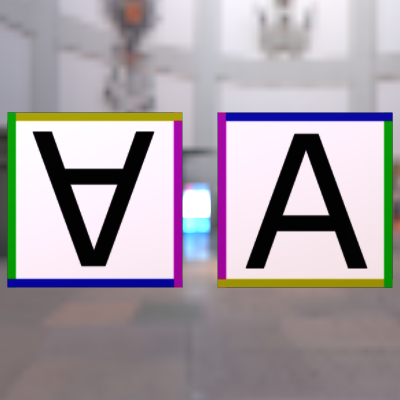
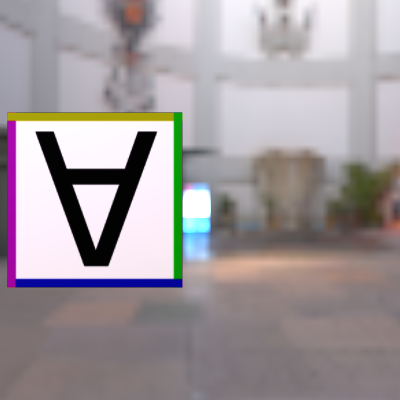
Update models.

diff --git a/Output/Positive/Instancing/README.md b/Output/Positive/Instancing/README.md
@@ -11,7 +11,7 @@ The following table shows the properties that are set for a given model.
 | [04](Instancing_04.gltf)<br>[View](https://bghgary.github.io/glTF-Assets-Viewer/?type=Positive&folder=24&model=4) | [<img src="Figures/Thumbnails/Instancing_04.png" align="middle">](Figures/SampleImages/Instancing_04.png) | Two primitives using the same accessors for the `POSITION` attribute. | One primitive uses texture A while the other primitive uses texture B. |
 | [05](Instancing_05.gltf)<br>[View](https://bghgary.github.io/glTF-Assets-Viewer/?type=Positive&folder=24&model=5) | [<img src="Figures/Thumbnails/Instancing_05.png" align="middle">](Figures/SampleImages/Instancing_05.png) | Two primitives using the same accessors for indices. | One primitive uses texture A while the other primitive uses texture B. |
 | [06](Instancing_06.gltf)<br>[View](https://bghgary.github.io/glTF-Assets-Viewer/?type=Positive&folder=24&model=6) | [<img src="Figures/Thumbnails/Instancing_06.png" align="middle">](Figures/SampleImages/Instancing_06.png) | Two nodes using the same mesh. | The two nodes have different translations. |
-| [07](Instancing_07.gltf)<br>[View](https://bghgary.github.io/glTF-Assets-Viewer/?type=Positive&folder=24&model=7) | [<img src="Figures/Thumbnails/Instancing_07.png" align="middle">](Figures/SampleImages/Instancing_07.png) | Two nodes using the same mesh. | One node has a negative scale and the other does not have a negative scale. |
+| [07](Instancing_07.gltf)<br>[View](https://bghgary.github.io/glTF-Assets-Viewer/?type=Positive&folder=24&model=7) | [<img src="Figures/Thumbnails/Instancing_07.png" align="middle">](Figures/SampleImages/Instancing_07.png) | Two nodes using the same mesh. | One node has a [1.0, -1.0, 1.0] scale and the other has a default scale. |
 | [08](Instancing_08.gltf)<br>[View](https://bghgary.github.io/glTF-Assets-Viewer/?type=Positive&folder=24&model=8) | [<img src="Figures/Thumbnails/Instancing_08.png" align="middle">](Figures/SampleImages/Instancing_08.png) | Two nodes using the same skin. | The two mesh primitives have different `POSITION` values. |
 | [09](Instancing_09.gltf)<br>[View](https://bghgary.github.io/glTF-Assets-Viewer/?type=Positive&folder=24&model=9) | [<img src="Figures/Thumbnails/Instancing_09.png" align="middle">](Figures/SampleImages/Instancing_09.png) | Two skins using the same joints. | The skin with texture B has inverseBindMatrices that fold twice as far as the skin with texture A. |
 | [10](Instancing_10.gltf)<br>[View](https://bghgary.github.io/glTF-Assets-Viewer/?type=Positive&folder=24&model=10) | [<img src="Figures/Thumbnails/Instancing_10.png" align="middle">](Figures/SampleImages/Instancing_10.png) | Two skins using the same inverseBindMatrices. | The base joint for the two skins have different translations. |
